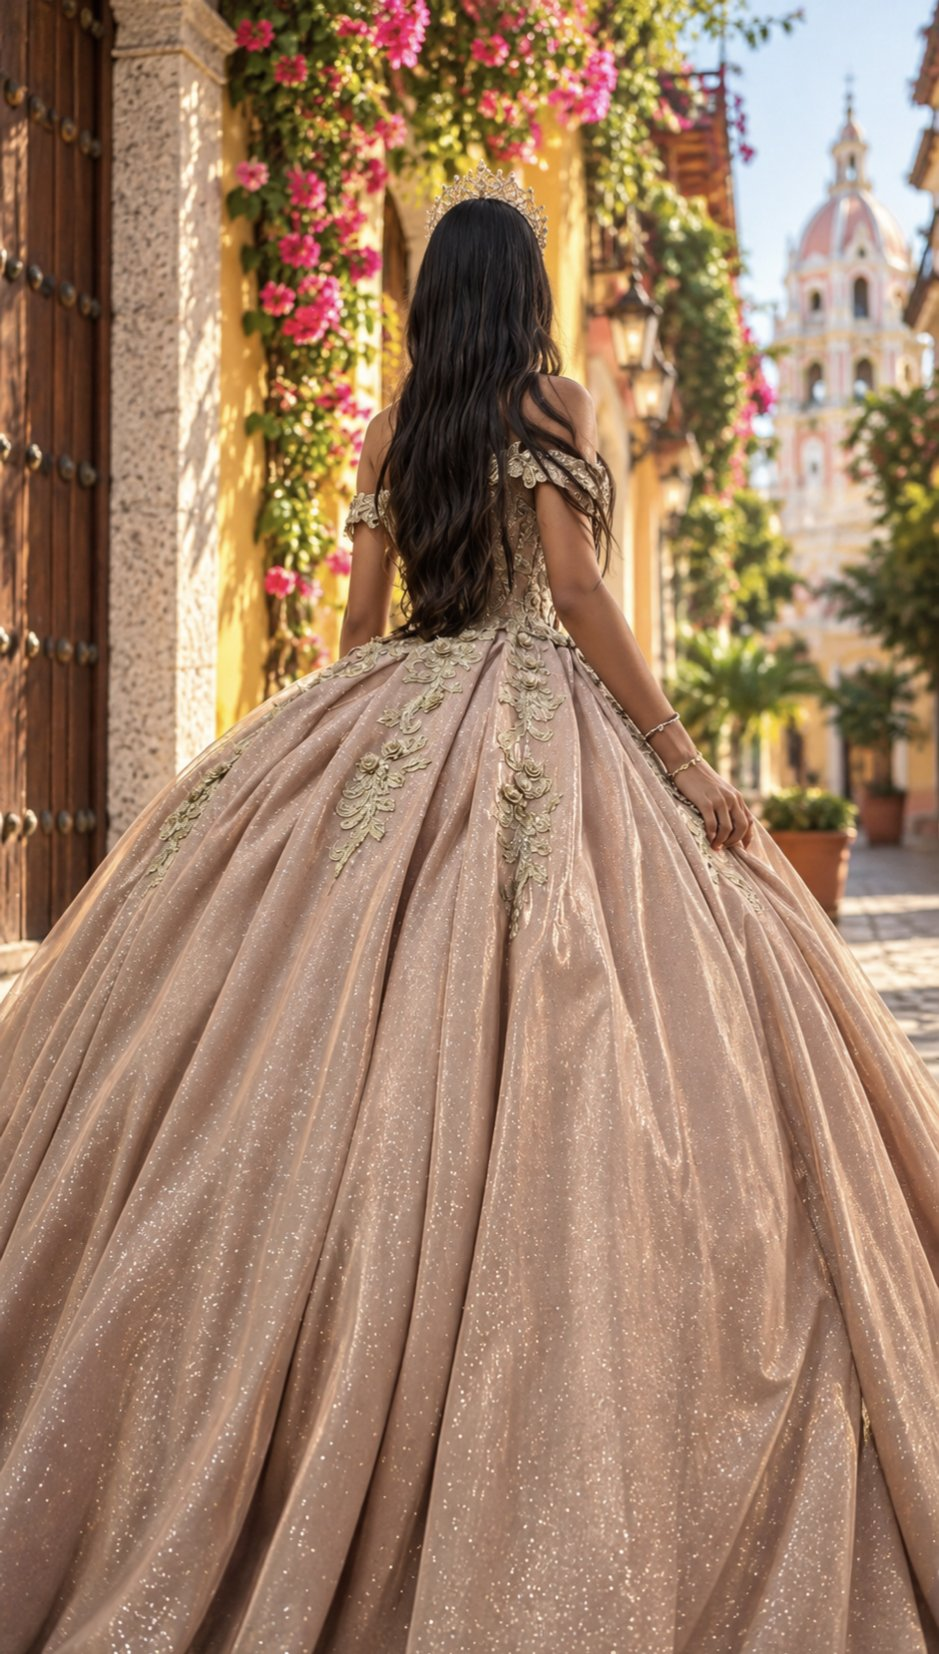
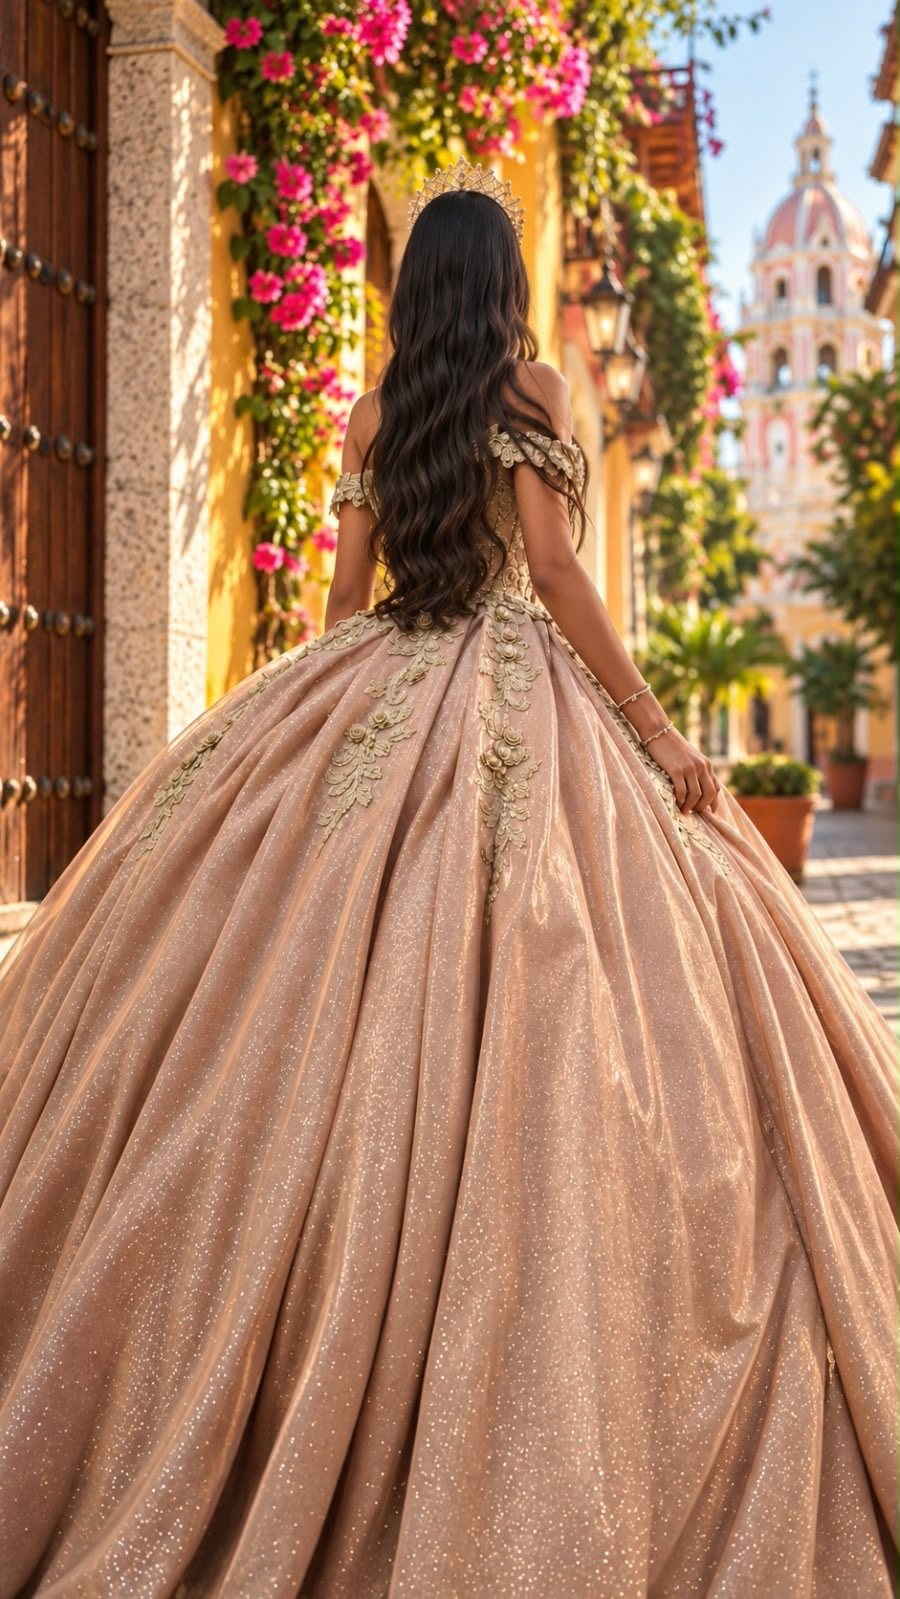
Usar las fotos en alta resolución
Reemplaza los recortes de capturas de pantalla por las fotos de
1024px de ancho.

Claude-Session: https://claude.ai/code/session_01FbzKEPXD8T23XRhHNAzzdP

diff --git a/README.md b/README.md
@@ -15,7 +15,7 @@ xv-mayte/
 ## 1. Personalizar
 
 1. Abre `js/config.js`. Ahí están la fecha, la ubicación, el itinerario, la vestimenta y los textos, tomados del diseño de Canva.
-2. Las fotos actuales están recortadas de capturas de pantalla. Para mejor calidad, reemplaza `img/portada.jpg`, `img/detalle.jpg` e `img/final.jpg` por los originales, con los mismos nombres.
+2. Las fotos principales son `img/portada.jpg`, `img/detalle.jpg` e `img/final.jpg`. Para cambiarlas, sube otra con el mismo nombre.
 3. **Canción**: sube el MP3 a la carpeta `img/` con el nombre exacto **`cancion.mp3`**. En GitHub: entra a la carpeta `img` → **Add file → Upload files**. La música arranca cuando el invitado abre el sobre; mientras el archivo no exista, el reproductor dice "Pronto".
 4. **Galería**: sube las fotos a `img/galeria/` y agrégalas en `galeria` de `config.js`, por ejemplo `["img/galeria/1.jpg", "img/galeria/2.jpg"]`.
 5. **Fotos de los invitados**: crea una carpeta en Google Drive, compártela como **"Cualquier persona con el enlace" → Editor** y pega el link en `subirFotosUrl`. Mientras esté vacío, el botón dice "Disponible el día de la fiesta".
